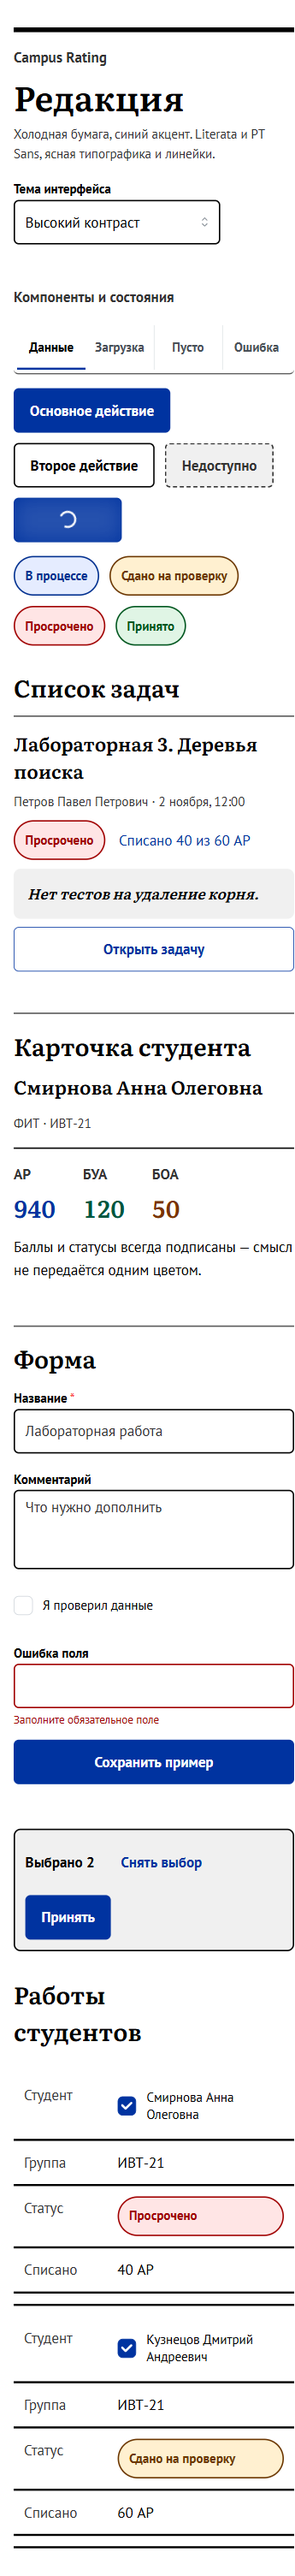
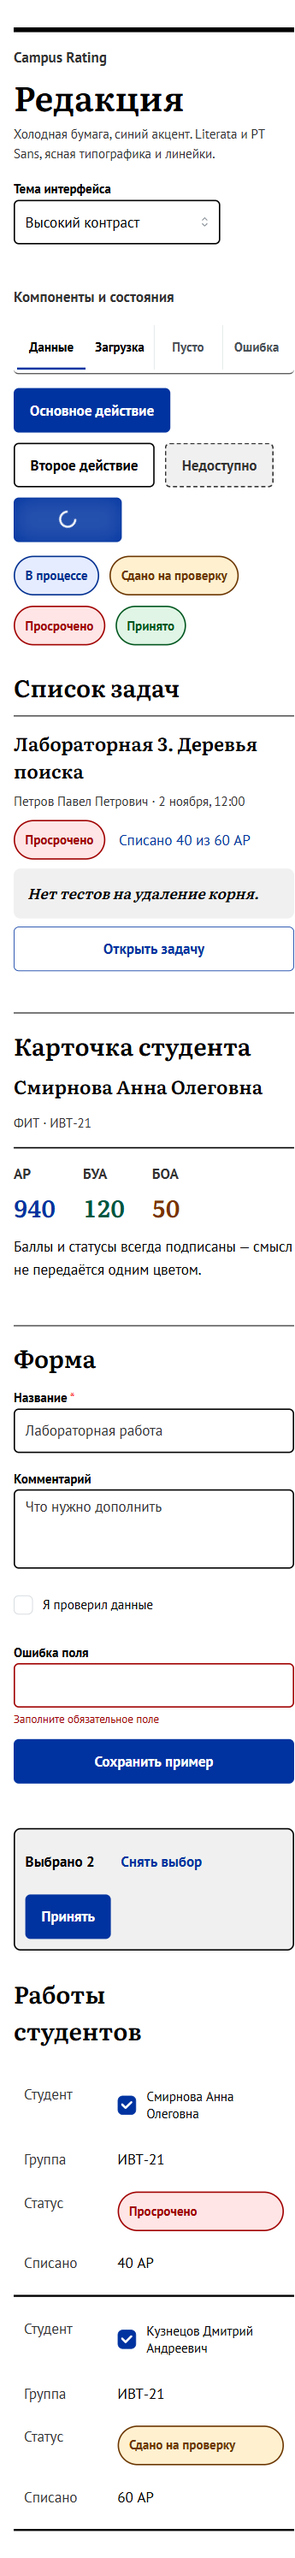
fix(frontend): keep one selected-row rule on mobile
Override selected cell borders at the mobile breakpoint; retain one line beneath each selected row. Validation:4 Node+30 Vitest, build and screenshots in three themes passed. Refs: PR18, PR25.

diff --git a/frontend/src/theme/theme.css b/frontend/src/theme/theme.css
@@ -40,6 +40,7 @@ html[data-theme='high-contrast'] a { text-decoration: underline; }
   .cr-table tr { padding-block: var(--mantine-spacing-sm); border-block-end: var(--cr-rule-width) solid var(--cr-rule); }
   .cr-table tbody tr { height: auto; min-height: var(--cr-row-height); }
   .cr-table td { display: grid; grid-template-columns: minmax(0, 1fr) minmax(0, 2fr); gap: var(--mantine-spacing-sm); border: 0; }
+  .cr-table tr[aria-selected='true'] td { border-block-end: 0; }
   .cr-table td::before { content: attr(data-label); color: var(--cr-muted); }
 }
 @media (prefers-reduced-motion: reduce) {

diff --git a/docs/agent-log.md b/docs/agent-log.md
@@ -603,3 +603,14 @@
 - **Урок:** нового нет; палитра и реальные размеры сверяются с эталоном и запущенным приложением.
 - **Кругов ревью:** 1 независимый повтор после прежнего запроса изменений и выбора человека.
 - **Коммит / PR:** PR18; интеграционный commit сохраняет принятое main и журнал, не меняет выбранные макеты.
+
+### 2026-11-10 — U21c: мобильная линия выбранной строки
+
+- **Кто / агент / модель:** Максим / Codex / GPT-6.
+- **Поручение:** финальная визуальная сверка с PR18.
+- **Результат с доказательствами:** просмотр свежего screenshot выявил линии под каждой ячейкой мобильной строки вместо одной под всей строкой. Media-правило теперь сбрасывает border ячеек с той же специфичностью; browser подтвердил cellBorder0 во всех трёх темах. Мобильные screenshots обновлены; check4Node+30Vitest и build passed.
+- **Не проверено:** независимое ревью PR25.
+- **Ошибка агента:** state-селектор имел большую специфичность, чем адаптивный td → найдено просмотром снимка → исправлена адаптивная версия выбранного состояния.
+- **Урок:** отдельное новое правило не добавляется; действует проверка состояний на360/1280.
+- **Кругов ревью:** авторская визуальная сверка.
+- **Коммит / PR:** обновление PR25.
